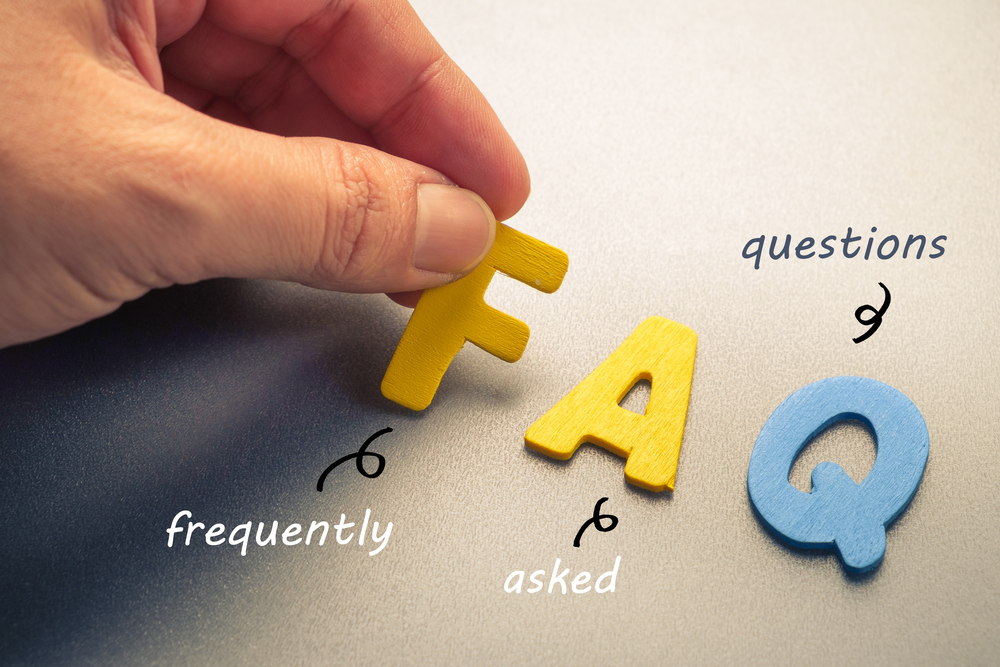
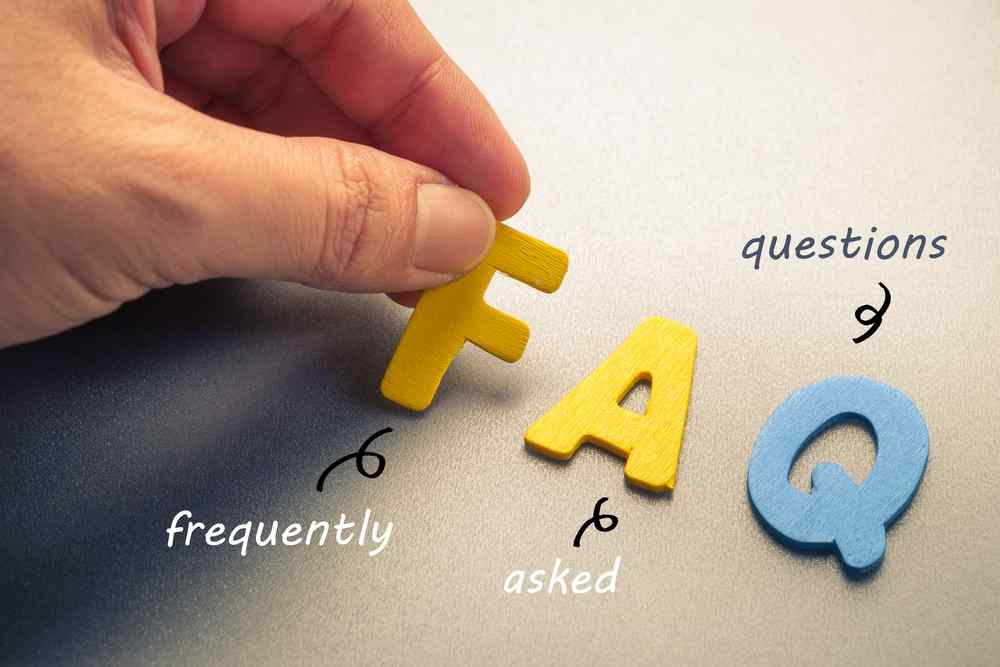
Contact Section Added & slider fixed

diff --git a/index.html b/index.html
@@ -4,7 +4,8 @@
     <meta charset="UTF-8">
     <meta http-equiv="X-UA-Compatible" content="IE=edge">
     <meta name="viewport" content="width=device-width, initial-scale=1.0">
-    <title>Victoria Convention Center</title>
+    <title>Fantasy Convention Center</title>
+    <link rel="shortcut icon" href="images/favicon.png" type="image/x-icon">
     <!-- Bootstrap CSS Link -->
     <link href="https://cdn.jsdelivr.net/npm/bootstrap@5.1.3/dist/css/bootstrap.min.css" rel="stylesheet" integrity="sha384-1BmE4kWBq78iYhFldvKuhfTAU6auU8tT94WrHftjDbrCEXSU1oBoqyl2QvZ6jIW3" crossorigin="anonymous">
     <!-- Font Awesome Link -->
@@ -19,7 +20,7 @@
      <nav class="navbar navbar-expand-lg navbar-light py-lg-3">
         <div class="container-fluid container-lg">
           <div class="logo">
-            <a class="navbar-brand fw-bold" href="#">Victoria Convention Center</a>
+            <a class="navbar-brand fw-bold" href="#"><span class="text-custom">Fantasy</span> Convention Center</a>
           </div>
           <button class="navbar-toggler" type="button" data-bs-toggle="collapse" data-bs-target="#navbarSupportedContent" aria-controls="navbarSupportedContent" aria-expanded="false" aria-label="Toggle navigation">
             <span class="navbar-toggler-icon"></span>
@@ -33,7 +34,7 @@
                 <a class="nav-link" href="#">About us</a>
               </li>
               <li class="nav-item">
-                <a class="nav-link" href="#">Contact us</a>
+                <a class="nav-link" href="#contact">Contact us</a>
               </li>
               <li class="nav-item">
                 <a class="nav-link" href="#package">Subscribe</a>
@@ -44,8 +45,8 @@
       </nav>
 
       <!-- Slider -->
-      <section class="slider container-fluid">
-        <div id="carouselExampleCaptions" class="carousel slide" data-bs-ride="carousel">
+      <section class="slider">
+           <div id="carouselExampleCaptions" class="carousel slide" data-bs-ride="carousel">
             <div class="carousel-indicators">
               <button type="button" data-bs-target="#carouselExampleCaptions" data-bs-slide-to="0" class="active" aria-current="true" aria-label="Slide 1"></button>
               <button type="button" data-bs-target="#carouselExampleCaptions" data-bs-slide-to="1" aria-label="Slide 2"></button>
@@ -53,39 +54,38 @@
             </div>
             <div class="carousel-inner">
               <div class="carousel-item active">
-                <img src="images/banner-1.jpg" class="d-block w-100" alt="Wedding Banner">
-                <div class="carousel-caption pb-lg-5">
+                <img src="images/banner-1.jpg" class="d-block w-100" alt="...">
+                <div class="carousel-caption mb-lg-4">
                   <h1>The Perfect venue for your next event</h1>
                   <p class="d-none d-sm-block">We have an awesome venue. Which is decorated <br> with colorful lights and many beautiful Craftsmanship.</p>
-                  <a href="#" class="btn fw-bold bg-white text-custom p-1 px-lg-4">Book Now</a>
+                  <a href="https://itsproali.github.io/signup-page/" target="_blank" class="btn fw-bold bg-white text-custom p-1 px-lg-4">Book Now</a>
                 </div>
               </div>
               <div class="carousel-item">
-                <img src="images/banner-2.jpg" class="d-block w-100" alt="Wedding Banner">
-                <div class="carousel-caption pb-lg-5">
+                <img src="images/banner-2.jpg" class="d-block w-100" alt="...">
+                <div class="carousel-caption mb-lg-4">
                   <h1>Perfect venue for your next Corporate event</h1>
                   <p class="d-none d-sm-block">We have an awesome venue. Which is decorated <br> with colorful lights and many beautiful Craftsmanship.</p>
-                  <a href="#" class="btn fw-bold bg-white text-custom p-1 px-lg-4">Book Now</a>
+                  <a href="https://itsproali.github.io/signup-page/" target="_blank" class="btn fw-bold bg-white text-custom p-1 px-lg-4">Book Now</a>
                 </div>
               </div>
               <div class="carousel-item">
-                <img src="images/banner-3.jpg" class="d-block w-100" alt="Wedding Banner">
-                <div class="carousel-caption pb-lg-5">
+                <img src="images/banner-3.jpg" class="d-block w-100" alt="...">
+                <div class="carousel-caption mb-lg-4">
                   <h1>The Perfect venue for your next get together</h1>
                   <p class="d-none d-sm-block">We have an awesome venue. Which is decorated <br> with colorful lights and many beautiful Craftsmanship.</p>
-                  <a href="#" class="btn fw-bold bg-white text-custom p-1 px-lg-4">Book Now</a>
+                  <a href="https://itsproali.github.io/signup-page/" target="_blank" class="btn fw-bold bg-white text-custom p-1 px-lg-4">Book Now</a>
                 </div>
               </div>
-              </div>
             </div>
-            <!-- <button class="carousel-control-prev" type="button" data-bs-target="#carouselExampleCaptions" data-bs-slide="prev">
+            <button class="carousel-control-prev" type="button" data-bs-target="#carouselExampleCaptions" data-bs-slide="prev">
               <span class="carousel-control-prev-icon" aria-hidden="true"></span>
               <span class="visually-hidden">Previous</span>
             </button>
             <button class="carousel-control-next" type="button" data-bs-target="#carouselExampleCaptions" data-bs-slide="next">
               <span class="carousel-control-next-icon" aria-hidden="true"></span>
               <span class="visually-hidden">Next</span>
-            </button> -->
+            </button>
           </div>
       </section>
     </header>
@@ -94,7 +94,7 @@
     <main>
         <!-- Package Section -->
         <section id="package" class="container mx-auto my-5">
-            <h1 class="text-center pb-5">Our Package</h1>
+            <h1 class="text-center pb-5 mb-md-5">Our <span class="text-custom">Packages</span></h1>
             <!-- row row-cols-1 row-cols-sm-2 row-cols-md-2 row-cols-lg-4 g-4 -->
             <div class="row row-cols-1 row-cols-sm-2 row-cols-md-2 row-cols-lg-4 g-3">
                 <div class="col">
@@ -159,7 +159,7 @@
 
         <!-- Frequently Asked Questions Section -->
         <section class="container mx-auto my-4">
-          <h1 class="text-center py-5">Frequently Asked Questions</h1>
+          <h1 class="text-center py-5">Frequently Asked <span class="text-custom">Questions</span></h1>
           <div class="row row-cols-1 row-cols-lg-2 g-4 d-lg-flex align-items-lg-center">
             <div class="accordion" id="accordionExample">
               <div class="accordion-item">
@@ -212,7 +212,26 @@
               </div>
             </div>
             <div class="faq-image">
-              <img class="img-fluid rounded-3" src="images/faq-1.jpg" alt="Frequently Asked Questions">
+              <img class="img-fluid rounded-3" src="images/faq.jpg" alt="Frequently Asked Questions">
+            </div>
+          </div>
+        </section>
+
+        <!-- Contact Section -->
+        <section id="contact" class="container mx-auto my-5">
+          <h1 class="text-center py-3"><span class="text-custom">Contact</span> us</h1>
+          <div class="contact row row-cols-1 row-cols-lg-2 g-lg-4 d-flex align-items-center">
+            <div class="col contact-image">
+              <img class="img-fluid" src="images/contact.jpg" alt="Contact">
+            </div>
+            <div class="col form">
+              <form action="" class="p-3">
+                <input class="p-2 mb-2 w-100 d-block" type="text" name="fullname" id="fullname" placeholder="* Enter your Full name..." required>
+                <input class="p-2 mb-2 w-100 d-block" type="text" name="sub" id="sub" placeholder="* Enter your Subject.." required>
+                <input class="p-2 mb-4 w-100 d-block" type="email" name="email" id="email" placeholder="* Enter your E-mail...">
+                <textarea class="w-100 p-3" name="message" id="message" cols="30" rows="8" placeholder="* Messages...."></textarea>
+                <input class="border-0 bg-custom px-4 py-1 rounded-3 text-white " type="submit" value="Send">
+              </form>
             </div>
           </div>
         </section>
@@ -222,7 +241,7 @@
     <footer class="w-100 bg-custom">
       <div class="footer d-lg-flex justify-content-between align-items-center py-3 container text-center">
         <div class="copyright text-white">
-          Copyright &copy; 2022 Victoria | All Rights Reserved
+          Copyright &copy; 2022 Fantasy | All Rights Reserved
         </div>
         <div class="ms-auto text-white text-center">
           <p>Get the App</p>
@@ -230,7 +249,7 @@
             <a href="https://apps.apple.com/us/app/messenger/id454638411" class="border border-2 rounded-3 px-3 py-2 mb-md-2 mx-auto" target="_blank">
               <img src="images/app-store.png" class="img-fluid" alt="App Store">
             </a>
-            <a href="https://apps.apple.com/us/app/messenger/id454638411" class="border border-2 rounded-3 px-3 py-2 mx-auto" target="_blank">
+            <a href="https://play.google.com/store/apps/details?id=com.learnprogramming.codecamp&hl=en&gl=US" class="border border-2 rounded-3 px-3 py-2 mx-auto" target="_blank">
               <img src="images/play-store.png" class="img-fluid" alt="App Store">
             </a>
           </div>

diff --git a/style.css b/style.css
@@ -1,5 +1,5 @@
 /* Font Import */
-@import url('https://fonts.googleapis.com/css2?family=Lato:wght@400;700&display=swap');
+@import url('https://fonts.googleapis.com/css2?family=Roboto:wght@400;500;700&display=swap');
 
 /* Basic CSS */
 * {
@@ -11,7 +11,7 @@ html {
     scroll-behavior: smooth;
 }
 body {
-    font-family: 'Lato', sans-serif;
+    font-family: 'Roboto', sans-serif;
 }
 .bg-custom {
     background-color: #fc5c65;
@@ -26,4 +26,26 @@ body {
     border-radius: 1.5rem;
     bottom: 2rem;
     left: 0;
+}
+.form input[type=text],[type=email] {
+    border: none;
+    border-bottom: 2px solid gray;
+    outline: none;
+}
+.form textarea {
+    border: 2px solid gray;
+    outline: none;
+}
+.form input:focus {
+    background-color: lightyellow;
+    outline: none;
+    border: none;
+    border-bottom: 2px solid #fc5c65;
+}
+.form textarea:focus {
+    border: 2px solid #fc5c65;
+    background-color: lightyellow;
+}
+.form [type=submit]:hover {
+    background-color: #d8333c;
 }
